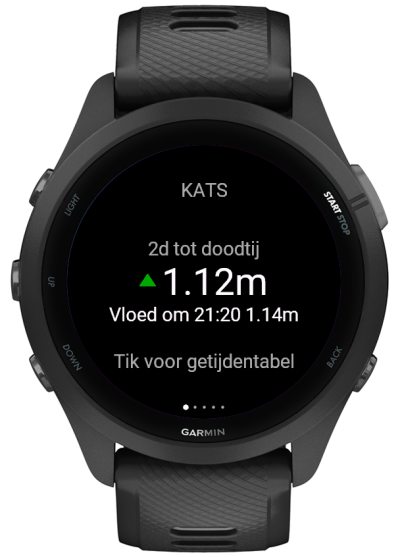
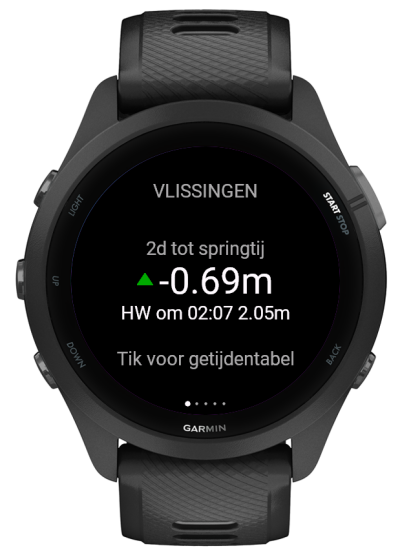
Use HW/LW abbreviations on tide page instead of Vloed/Eb
Vloed and eb name the rising and falling periods between extrema;
they're not synonyms for the moments of high and low water. Using
them as labels for the next extremum was technically inaccurate, so
the tide page now reads "HW om 14:32 3.21m" / "LW om hh:mm …".

diff --git a/README.md b/README.md
@@ -7,7 +7,7 @@ Garmin Connect IQ widget for open water swimming conditions in Zeeland. Shows re
 ## Features
 
 - **Glance view** -- compact summary in the widget carousel: tide direction, water level, water temp, air temp, wind
-- **Tide page** -- cosine-interpolated water level in meters (NAP) with up/down arrow, next Vloed (HW) or Eb (LW) with level and time, springtij/doodtij label above. Tap to open the tide table
+- **Tide page** -- cosine-interpolated water level in meters (NAP) with up/down arrow, next HW or LW with level and time, springtij/doodtij label above. Tap to open the tide table
 - **Tide table** -- scrollable 7-day HW/LW times grouped by date, with a "Getijdetype RWS" header (astronomisch / verwachting)
 - **Water page** -- current sea surface temperature in °C, with "Gemeten op: hh:mm" footer
 - **Weather page** -- air temperature, wind speed in km/h + Beaufort + 16-point Dutch compass direction (NNO, ZZW, …), "Gemeten op" footer
@@ -28,7 +28,7 @@ Page 1: Tide          Page 2: Water
   VLISSINGEN            VLISSINGEN
    2d tot springtij        Water
     ▲ 1.83m               10.8°C
-   Vloed om 14:32 3.21m    ~~~~~
+   HW om 14:32 3.21m       ~~~~~
    Tik voor getijdentabel  Gemeten op: 14:32
     ● ○ ○ ○ ○             ○ ● ○ ○ ○
 
@@ -53,11 +53,13 @@ Page 5: Settings
 
 Simulator captures:
 
-- [Tide](screens/page-1.png) — direction arrow, interpolated level, next Vloed/Eb, springtij/doodtij
+- [Tide](screens/page-1.png) — direction arrow, interpolated level, next HW/LW, springtij/doodtij
 - [Tide table](screens/page-1-table.png) — scrollable 7-day HW/LW grouped by date
 - [Water](screens/page-2.png) — current sea surface temperature with "Gemeten op" footer
 - [Weather](screens/page-3.png) — air temperature, wind in km/h + Beaufort + Dutch compass direction
 - [Sync](screens/page-4.png) — last sync time, manual refresh
+- [Settings page](screens/page-5.png) — on-watch entry point (tap to open)
+- [Settings menu](screens/page-5-settings.png) — switch location and Getijdetype RWS
 - [Store cover](screens/cover.jpg) — listing artwork
 
 ## Supported locations